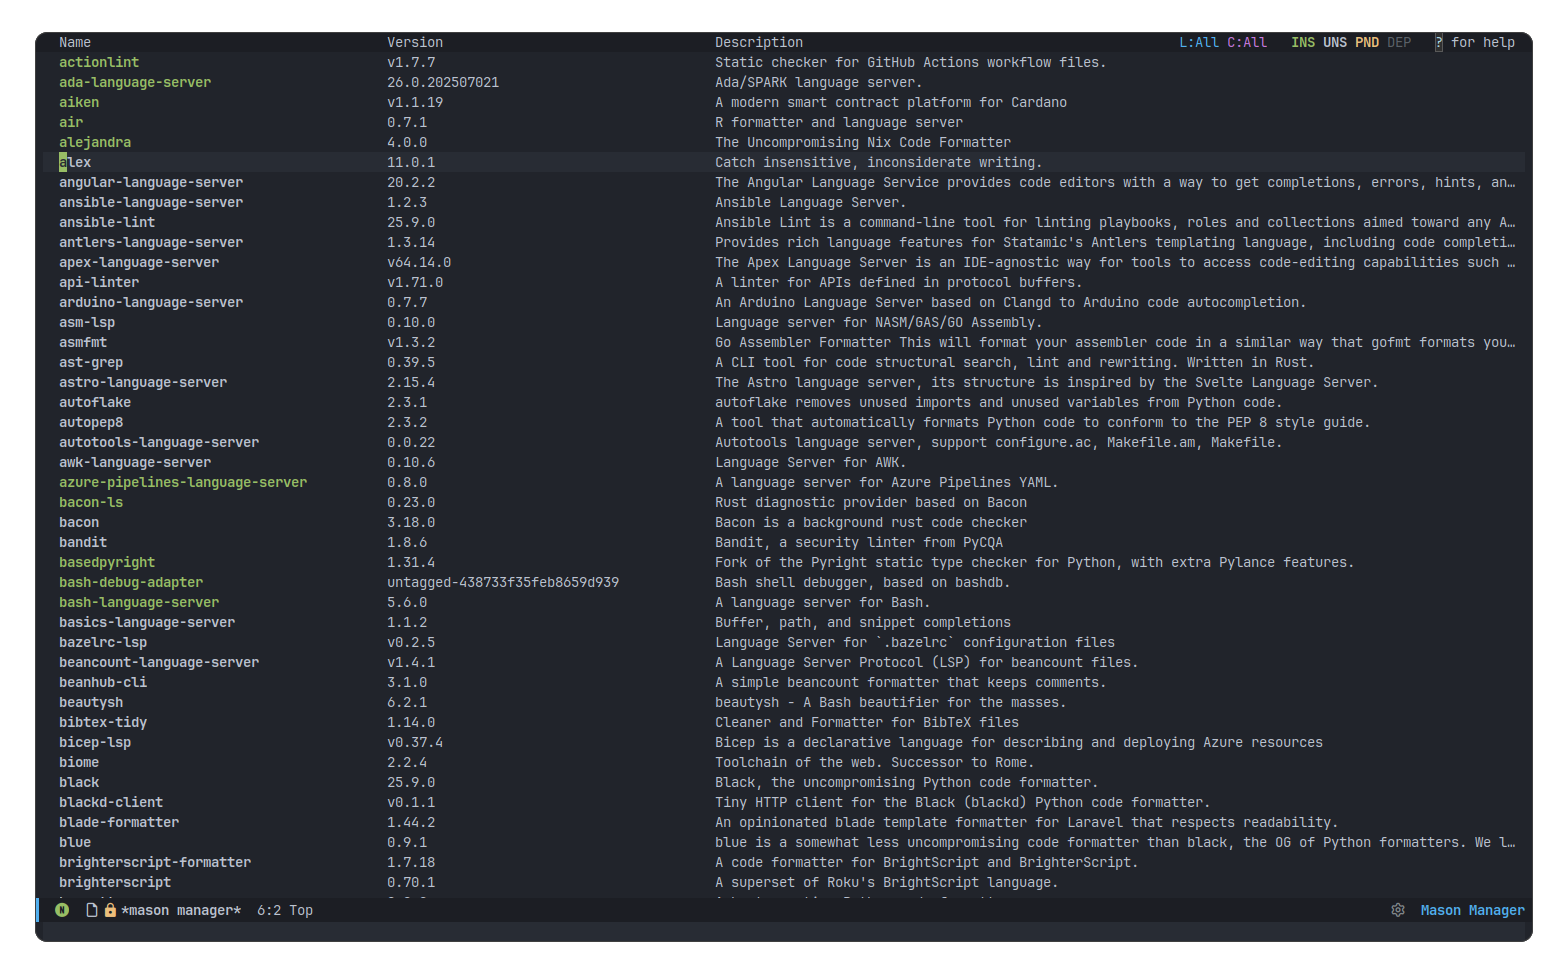
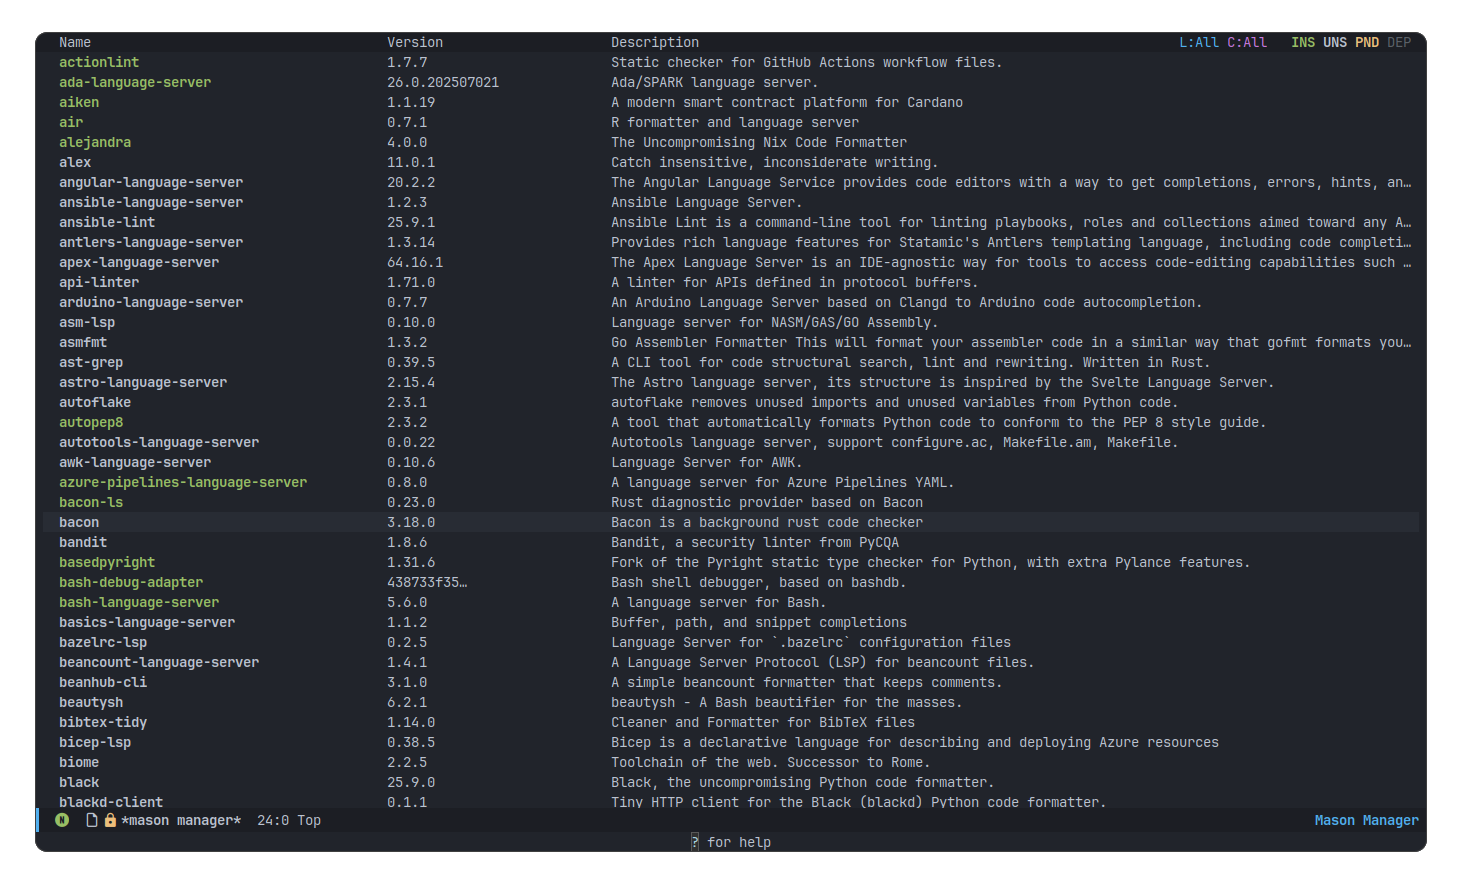
add keybind for installing inside `mason-info`
remove `v` and other common prefix on manager version
update readme

Changed region(s): [[0.0, 0.0303, 0.985, 0.9708], [0.8003, 0.7281, 0.8311, 0.7584]]

diff --git a/README.md b/README.md
@@ -18,6 +18,8 @@ Package registry at [mason-org/mason-registry](https://github.com/mason-org/maso
 ```
 
 ## Screenshots
-| ![Mason manager](docs/Screenshot-1.png) | ![Package info](docs/Screenshot-2.png) | ![M-x mason-install](docs/Screenshot-3.png) |
-|:---------------------------------------:|:--------------------------------------:|:-------------------------------------------:|
-| `mason-manager`                         | Package info                           | `mason-install`                             |
+| ![Mason manager](docs/Screenshot-1.png)     | ![Package info](docs/Screenshot-2.png)    |
+|:-------------------------------------------:|:-----------------------------------------:|
+| `mason-manager`                             | Package info                              |
+| ![M-x mason-install](docs/Screenshot-3.png) | ![`M-x mason-log`](docs/Screenshot-4.png) |
+| `mason-install`                             | `mason-log`                               |
